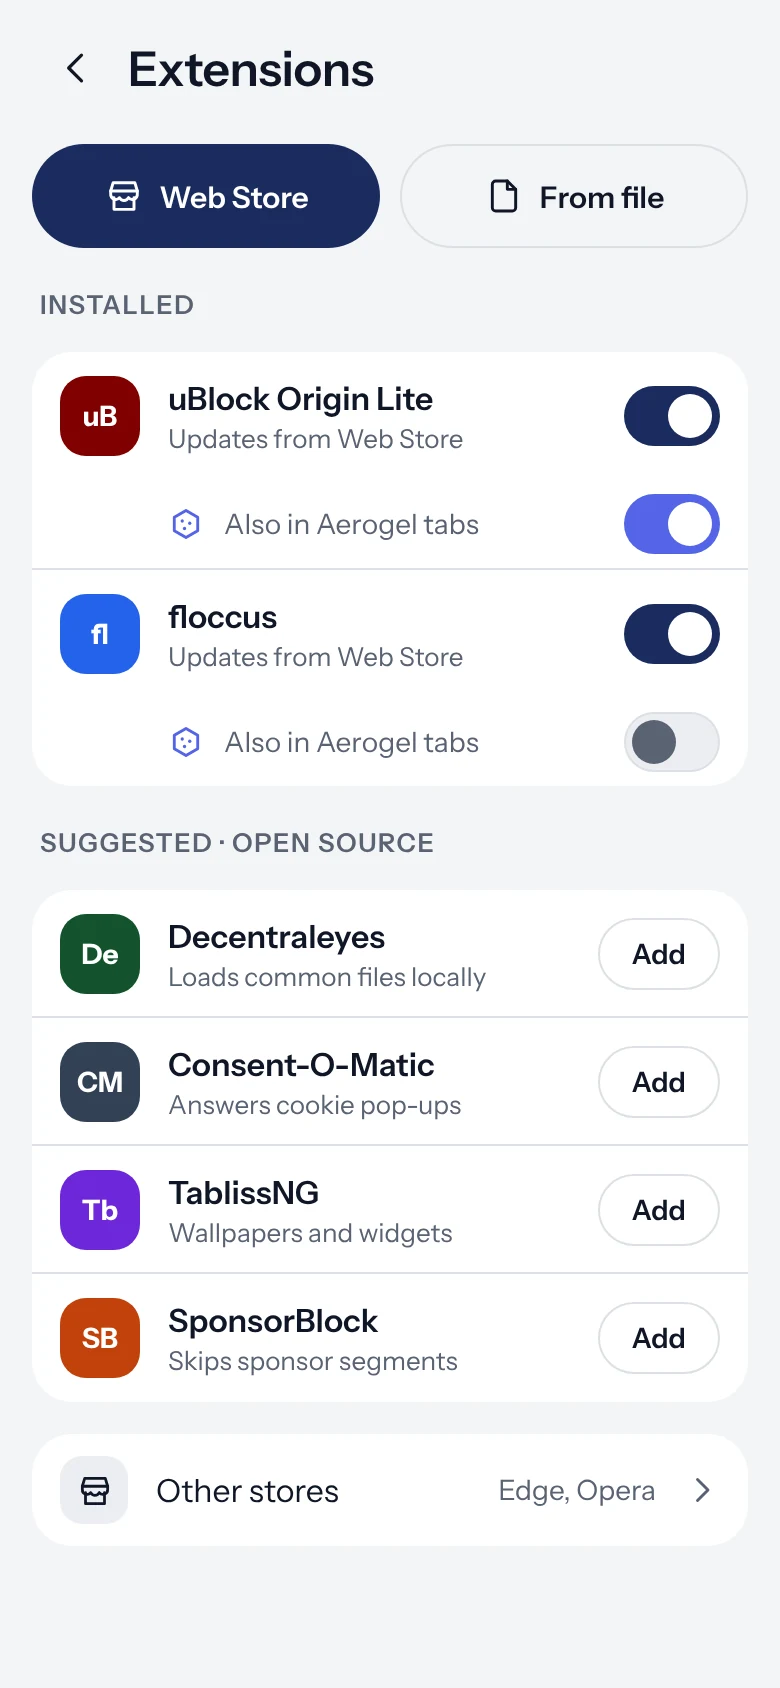
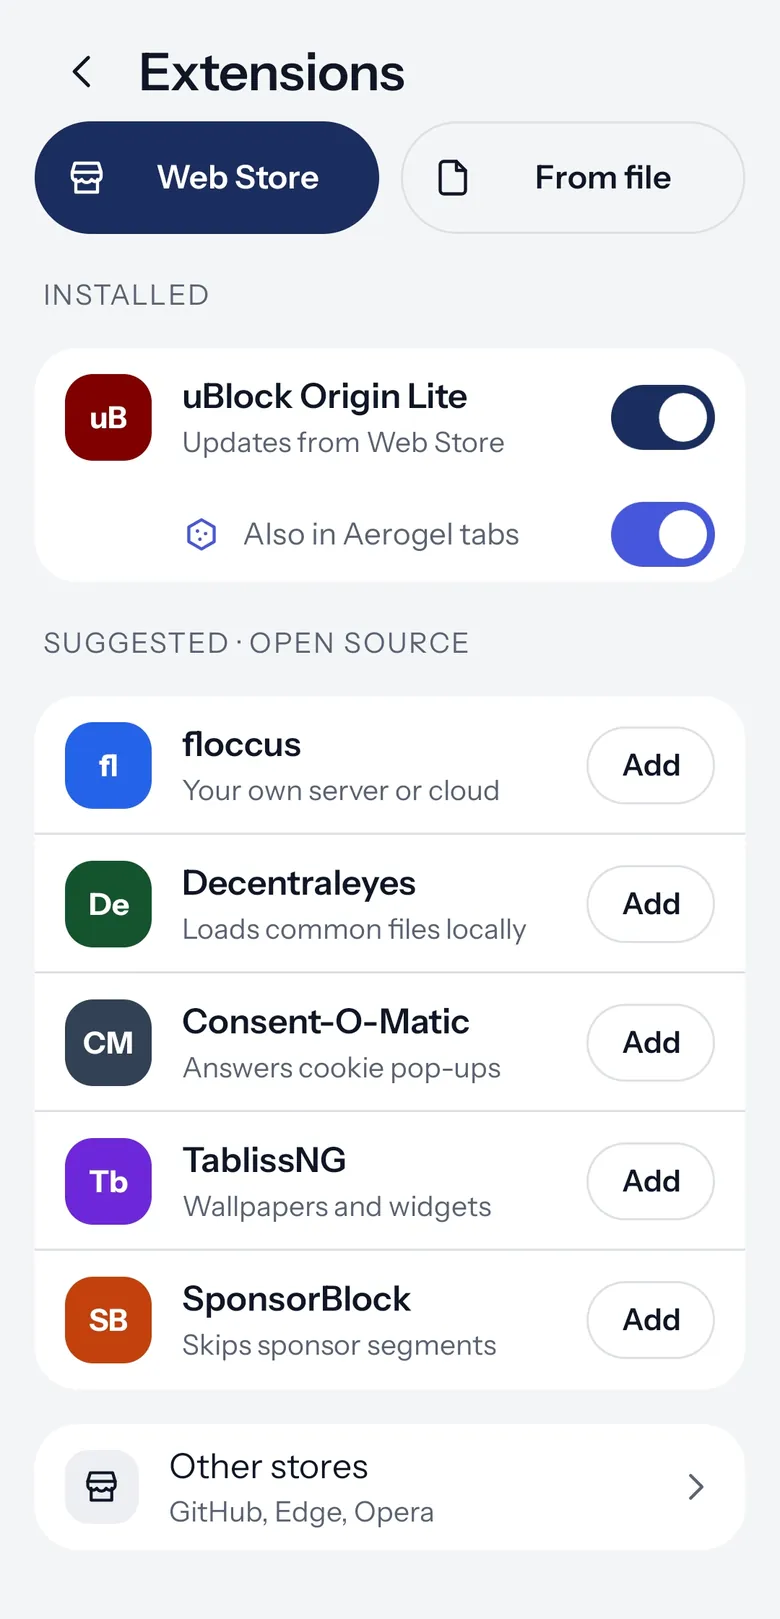
new screenshots

diff --git a/index.html b/index.html
@@ -61,7 +61,7 @@
       "url": "https://aeriumbrowser.com/",
       "image": "https://aeriumbrowser.com/icon-512.png",
       "screenshot": [
-        "https://aeriumbrowser.com/shots/new-tab.webp",
+        "https://aeriumbrowser.com/shots/browse-black.webp",
         "https://aeriumbrowser.com/shots/extensions.webp",
         "https://aeriumbrowser.com/shots/settings-guard.webp",
         "https://aeriumbrowser.com/shots/settings-backup.webp"
@@ -247,13 +247,13 @@
   </div>
  </div>
  <div class="panel navy">
-  <div class="phone"><img src="/shots/new-tab.webp" width="282" height="610" alt="Aerium new tab page in true black, with shortcuts, Aerium Guard and the address bar"></div>
+  <div class="phone"><img src="/shots/browse-black.webp" width="282" height="610" alt="Aerium in the true black theme, showing a Wikipedia article with the address bar on top"></div>
  </div>
 </section>
 
 <section class="row flip" id="extensions">
  <div class="panel a">
-  <div class="phone"><img src="/shots/extensions.webp" width="282" height="610" loading="lazy" alt="Aerium extensions screen with uBlock Origin Lite and floccus installed and open source suggestions"></div>
+  <div class="phone"><img src="/shots/extensions.webp" width="282" height="610" loading="lazy" alt="Aerium extensions screen with uBlock Origin Lite installed, the Aerogel switch and open source suggestions"></div>
  </div>
  <div class="text">
   <h2>Extensions, finally.</h2>
@@ -267,7 +267,7 @@
   <p>No telemetry, no big tech services. Aerium Guard sets privacy, security and speed in one place, and new security releases are picked up within a day.</p>
  </div>
  <div class="panel b">
-  <div class="phone"><img src="/shots/settings-guard.webp" width="282" height="610" loading="lazy" alt="Aerium Guard with the Recommended mode, other modes and saved profiles"></div>
+  <div class="phone"><img src="/shots/settings-guard.webp" width="282" height="610" loading="lazy" alt="Aerium Guard with the Recommended, Privacy, Performance and Security modes and saved profiles"></div>
  </div>
 </section>
 
